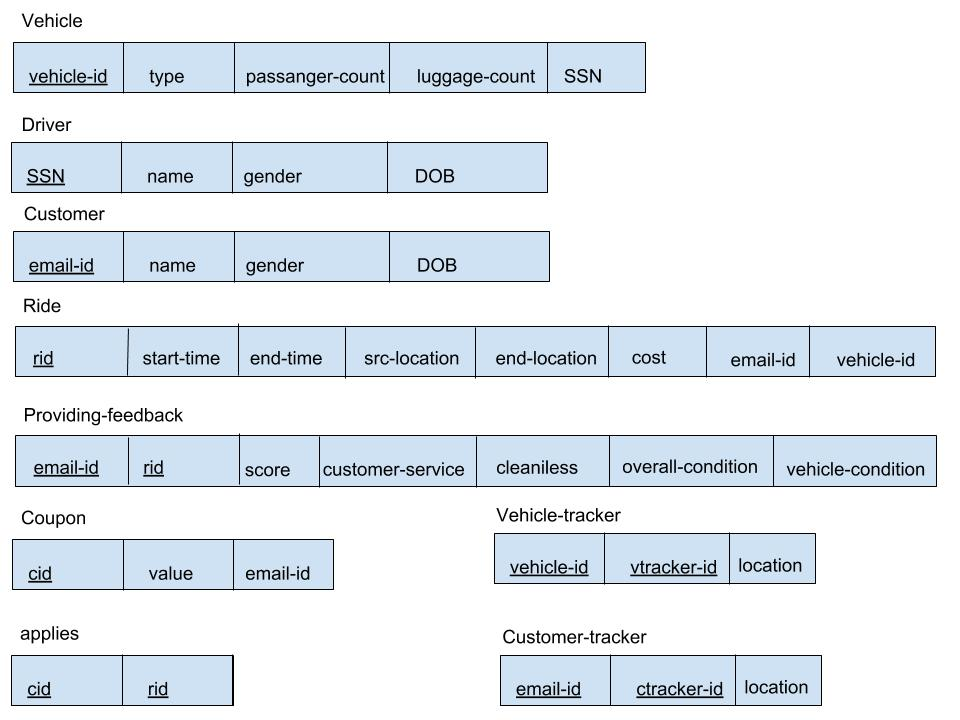
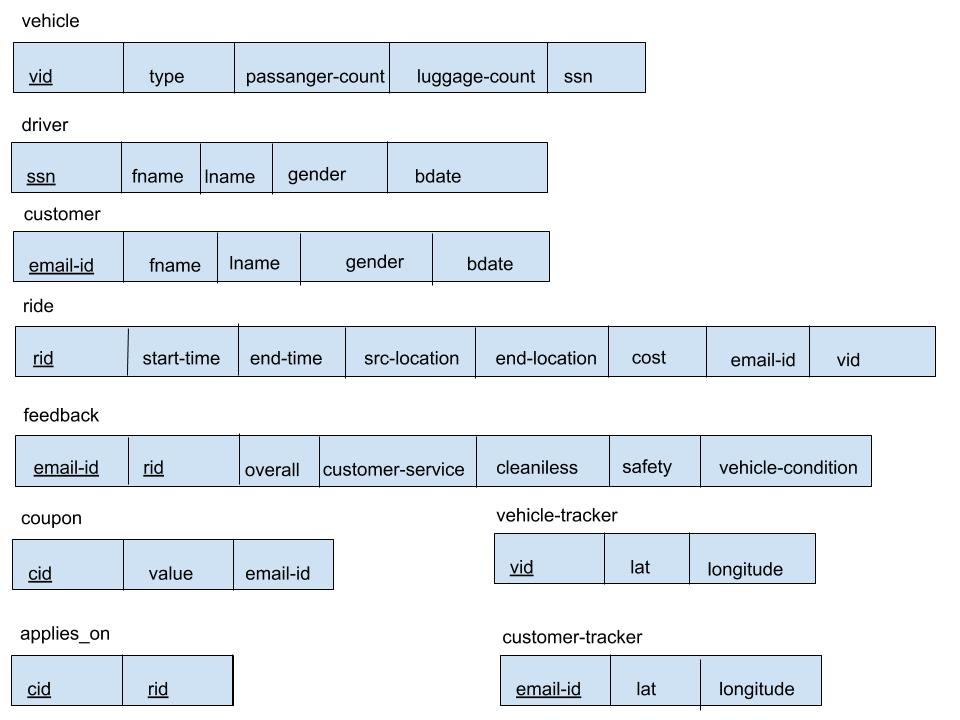
update report.md

diff --git a/docs/Report.md b/docs/Report.md
@@ -7,12 +7,77 @@ In this project, we designed and implemented a simplified taxicab system. In thi
 
 1. ER diagram
  
-![alt text](images/ER.png)
+![alt text](images/ER.png =250x)
 
 
 2. Mapping ER to relational model
 
-![alt text](images/mapping.jpg)
+![alt text](images/mapping.jpg =250x)
+
+3. Our relational model satisfies 3NF
+
+   The general form for 3NF violation is Key -> Not Key -> Not In Key, in our relational model, there is no this violation, and there is no transitive functional dependency. All non-key attributes are fully dependent only on the primary key. 
+
+4. Specific design choices
+	
+	Vehicles and customers are tracked using GPS, we create two entities, customer_tracker and vehicle_tracker to address this requirement instead of adding GPS as an attribute. In vehicle_tracker table, we use vehicle_id as the foreign key referenced to vehicle, and loaction(latitude, longitude) as the attribute. In customer_tracker table, we use email_id as the foreign key referenced to customer, and loaction(latitude, longitude) as the attribute.
+
+
+## Implementation
+
+We designed 5 SQL queries which can be run on our front-end and list the dataset. These queries have joins among tables and aggregate functions, such as Count, Avg.
+
+- Select all the male drivers fname and lname whose vehicle type is SUV.
+
+```sql
+    select driver.fname from driver, vehicle where vehicle.dssn = driver.ssn and vehicle.type = 'SUV'
+```
+
+- Find the number of drivers who were born after “12-01-2000”.
+
+```sql
+    select fname, count(*) from driver where driver.bdate > '12-01-2000' group by fname
+```
+
+- Find the average overall scores of the rides for customers were born after “12-01-2010”
+
+```sql
+    select cost, avg(feedback.overall)
+      from feedback, ride, customer
+      where feedback.ride_id = ride.rid and
+        ride.c_mail = customer.email_id and
+        customer.bdate > '12-01-2010'
+      group by cost
+```
+
+- Retrieve the customers who apply more than 1 coupon to rides  
+
+```sql
+    select fname, count(*)
+      from customer, coupon, applies_on
+      where coupon.customer_email = customer.email_id and
+            applies_on.coupon_id = coupon.cid and
+            customer_email in (select customer_email from coupon
+                               group by customer_email
+                               having count(*) > 1)
+      group by fname
+```
+
+- Retrieve locations of vehicles, whose luggage_count > 4
+
+```sql
+    select lat, longitude
+      from vehicle_tracker, vehicle
+      where vehicle_tracker.vehicle_id = vehicle.vid
+      and vehicle. luggage_count > 4
+```
+
+
+## Limitation and future work
+
+Our taxicab test database is not very large, in the future we could enlarge the records to million size, and try to use "Create Index" to create an index on some column in one table, evaluate the amount of time that our system takes to execute the queries, and do some comparison with the amount of time without using index.
+ 
+
 
 
 
